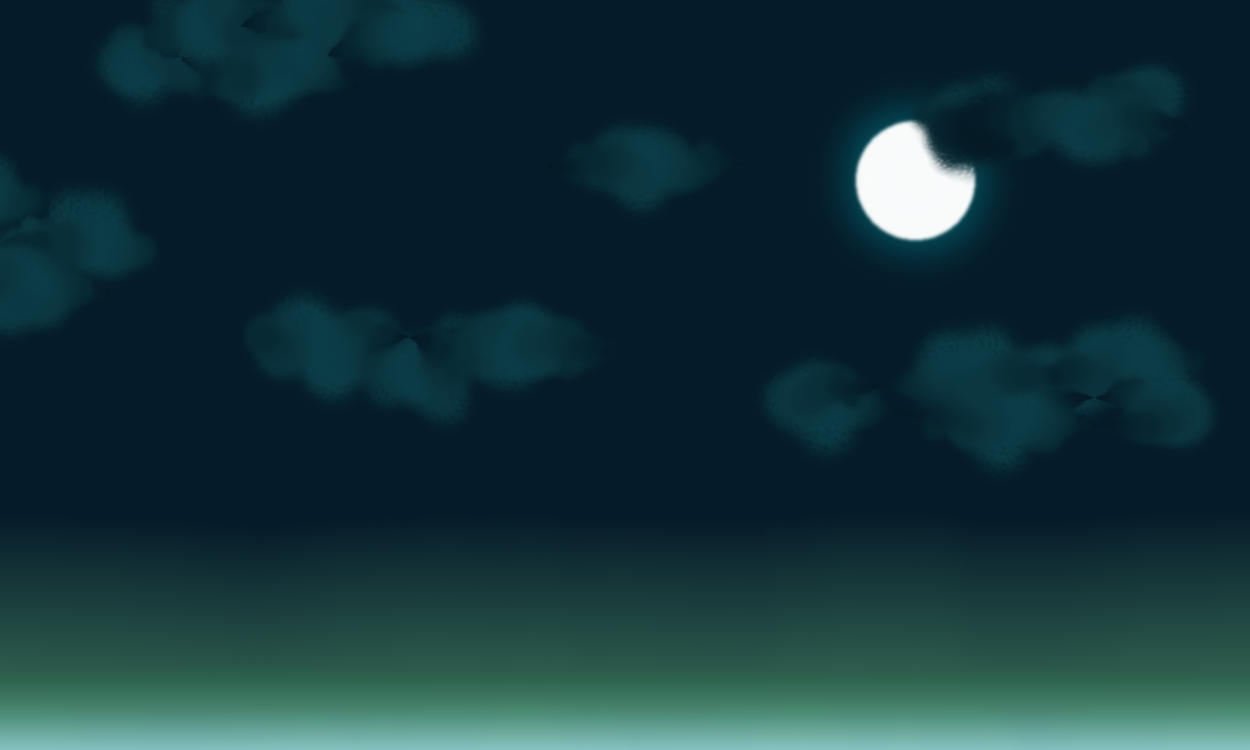
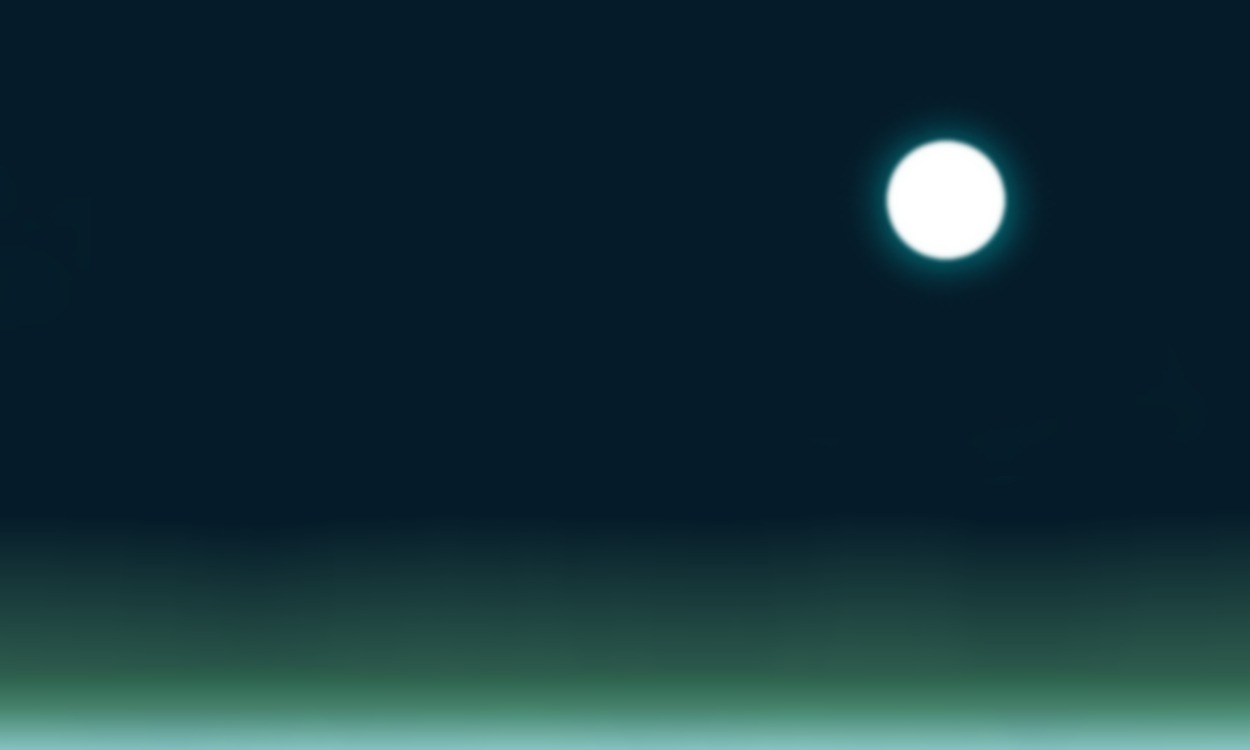
parallax template... fail.

diff --git a/src/LevelReader.cpp b/src/LevelReader.cpp
@@ -133,13 +133,13 @@ bool LevelReader::readTilesetPath(char* start, char* end, LevelData& data)
 	return true;
 }
 
-bool LevelReader::readLayerImage(char* start, char* end, LevelData& data)
+bool LevelReader::readLayerBackground(char* start, char* end, LevelData& data)
 {
 	char* startData;
 	startData = gotoNextChar(start, end, '"');
 	startData++;
 	float distance = atof(startData);
-	startData = gotoNextChar(startData, end, ',');
+	startData = gotoNextChar(start, end, ',');
 	startData++;
 	string path(startData);
 	int count = countToNextChar(startData, end, '"');
@@ -181,7 +181,7 @@ bool LevelReader::readTileSize(char* start, char* end, LevelData& data)
 	return true;
 }
 
-bool LevelReader::readLayerBackground(char* start, char* end, LevelData& data)
+bool LevelReader::readLayerTiles(char* start, char* end, LevelData& data)
 {
 	// add a new layer into data
 	vector<int> layer;
@@ -309,9 +309,9 @@ bool LevelReader::readLevel(char* fileName, LevelData& data)
 			pos = gotoNextChar(pos, end, ';');
 			pos = gotoNextChar(pos, end, '\n');
 		}
-		else if (strncmp(pos, __LAYER_BACKGROUND, strlen(__LAYER_BACKGROUND)) == 0) {
-			printf("LevelReader: Found tag %s \n", __LAYER_BACKGROUND);
-			readLayerBackground(pos, end, data);
+		else if (strncmp(pos, __LAYER_TILES, strlen(__LAYER_TILES)) == 0) {
+			printf("LevelReader: Found tag %s \n", __LAYER_TILES);
+			readLayerTiles(pos, end, data);
 			pos = gotoNextChar(pos, end, ';');
 			pos = gotoNextChar(pos, end, '\n');
 		}
@@ -320,9 +320,9 @@ bool LevelReader::readLevel(char* fileName, LevelData& data)
 			readStartPos(pos, end, data);
 			pos = gotoNextChar(pos, end, '\n');
 		}
-		else if (strncmp(pos, __LAYER_IMAGE, strlen(__LAYER_IMAGE)) == 0) {
-			printf("LevelReader: Found tag %s \n", __LAYER_IMAGE);
-			readLayerImage(pos, end, data);
+		else if (strncmp(pos, __LAYER_BACKGROUND, strlen(__LAYER_BACKGROUND)) == 0) {
+			printf("LevelReader: Found tag %s \n", __LAYER_BACKGROUND);
+			readLayerBackground(pos, end, data);
 			pos = gotoNextChar(pos, end, '\n');
 		}
 		else {

diff --git a/src/Level.cpp b/src/Level.cpp
@@ -37,12 +37,30 @@ bool Level::load(ResourceID id)
 	return true;
 }
 
-void Level::draw(sf::RenderTarget &target, sf::RenderStates states)
+void Level::draw(sf::RenderTarget &target, sf::RenderStates states, Vector2f* center_)
 {
+	Vector2f center(center_->x, center_->y);
+	delete center_;
+	cout <<  center.x << endl;
+	sf::View view;
+	view.setSize(WINDOW_WIDTH, WINDOW_HEIGHT);
 	for (int i = 0; i < m_backgroundLayers.size(); i++)
 	{
+		// handle case for layer at infinity
+		if (m_backgroundLayers[i].getDistance() == -1.0f) 
+		{
+			view.setCenter(WINDOW_WIDTH / 2, WINDOW_HEIGHT / 2);
+			target.setView(view);
+		}
+		else
+		{
+			view.setCenter((center.x * m_backgroundLayers[i].getDistance()) + (WINDOW_WIDTH / 3.4), WINDOW_HEIGHT / 2);
+			target.setView(view);
+		}
 		m_backgroundLayers[i].render(target);
 	}
+	view.setCenter(center.x, WINDOW_HEIGHT / 2);
+	target.setView(view);
 	m_tileMap.draw(target, states);
 }
 

diff --git a/include/LevelReader.h b/include/LevelReader.h
@@ -6,8 +6,8 @@
 #define __MAP_TILESIZE "map.tilesize"
 #define __TILESET_PATH "tileset.path"
 #define __LAYER_COLLIDABLE "layer.collidable"
+#define __LAYER_TILES "layer.tiles"
 #define __LAYER_BACKGROUND "layer.background"
-#define __LAYER_IMAGE "layer.image"
 #define __CENDRIC_STARTPOS "cendric.startpos"
 
 struct LevelData
@@ -45,7 +45,7 @@ private:
 	bool readLayerBackground(char* start, char* end, LevelData& data);
 	bool readLayerCollidable(char* start, char* end, LevelData& data);
 	bool readStartPos(char* start, char* end, LevelData& data);
-	bool readLayerImage(char* start, char* end, LevelData& data);
+	bool readLayerTiles(char* start, char* end, LevelData& data);
 
 	// \brief check level bean for validity before loading the level
 	bool checkData(LevelData& data);

diff --git a/src/Screens/GameScreen.cpp b/src/Screens/GameScreen.cpp
@@ -4,8 +4,8 @@ GameScreen::GameScreen()
 {
 	cout << "Init GameScreen...";
 	m_currentLevel.load(ResourceID::Level_testLevel);
-	MainCharacter* mainChar = new MainCharacter(&m_currentLevel);
-	addObject(mainChar);
+	m_mainChar = new MainCharacter(&m_currentLevel);
+	addObject(m_mainChar);
 	cout << "...done." << endl;
 }
 
@@ -21,6 +21,7 @@ Screen* GameScreen::update(sf::Time frameTime)
 
 void GameScreen::render(sf::RenderTarget &renderTarget)
 {
-	m_currentLevel.draw(renderTarget, RenderStates::Default);
+	// parallax 
+	m_currentLevel.draw(renderTarget, RenderStates::Default, m_mainChar->getCenter());
 	Screen::render(renderTarget);
 }

diff --git a/src/BackgroundLayer.cpp b/src/BackgroundLayer.cpp
@@ -15,12 +15,17 @@ void BackgroundLayer::dispose()
 
 void BackgroundLayer::load(std::string& filename, float distance)
 {
-	m_distance = distance;
 	m_fileName = filename;
+	m_distance = distance;
 	m_sprite = sf::Sprite((*g_resourceManager->getTexture(m_fileName)));
 }
 
 void BackgroundLayer::render(sf::RenderTarget &target) 
 {
 	target.draw(m_sprite);
+}
+
+float BackgroundLayer::getDistance()
+{
+	return m_distance;
 }

diff --git a/src/MainCharacter.cpp b/src/MainCharacter.cpp
@@ -146,6 +146,13 @@ void MainCharacter::handleInput()
 	setAcceleration(Vector2f(newAccelerationX, newAccelerationY));
 }
 
+Vector2f* MainCharacter::getCenter()
+{
+	return new Vector2f(
+		getBoundingBox()->left + (getBoundingBox()->width / 2), 
+		getBoundingBox()->top + (getBoundingBox()->height / 2));
+}
+
 void MainCharacter::load()
 {
 	setBoundingBox(sf::IntRect(0, 0, 46, 100));

diff --git a/include/Level.h b/include/Level.h
@@ -18,8 +18,8 @@ public:
 	// deletes the resources
 	void dispose();
 
-	// \brief draws the level. At the moment, only its tilemap.
-	void draw(sf::RenderTarget &target, sf::RenderStates states);
+	// \brief draws the level. Background layers, tilemap, foreground layers.
+	void draw(sf::RenderTarget &target, sf::RenderStates states, Vector2f* center);
 
 private:
 	TileMap m_tileMap;

diff --git a/include/stdafx.h b/include/stdafx.h
@@ -24,8 +24,12 @@ using namespace std;
 #include <SFML/Graphics.hpp>
 using namespace sf;
 
-// own classes
+// TODO these values should not be const, but loaded from an .ini file.
+#define WINDOW_WIDTH 1250
+#define WINDOW_HEIGHT 750
+#define FRAME_RATE 60
 
+// own classes
 #include "ResourceManager.h"
 #include "BackgroundLayer.h"
 #include "TileMap.h"

diff --git a/include/Game.h b/include/Game.h
@@ -1,10 +1,5 @@
 #include "stdafx.h"
 
-// TODO these values should not be const, but loaded from an .ini file.
-#define WINDOW_WIDTH 1250
-#define WINDOW_HEIGHT 750
-#define FRAME_RATE 60
-
 class Game
 {
 public:

diff --git a/include/BackgroundLayer.h b/include/BackgroundLayer.h
@@ -9,6 +9,7 @@ public:
 	void load(std::string& filename, float distance);
 	void dispose();
 	void render(sf::RenderTarget &target);
+	float getDistance();
 
 private:
 	// distance to camera. -1 means infinity.

diff --git a/include/Screens/GameScreen.h b/include/Screens/GameScreen.h
@@ -1,5 +1,7 @@
 #include "stdafx.h"
 
+class MainCharacter;
+
 class GameScreen : public Screen
 {
 public:
@@ -11,4 +13,5 @@ public:
 
 private:
 	Level m_currentLevel;
+	MainCharacter* m_mainChar;
 };

diff --git a/include/MainCharacter.h b/include/MainCharacter.h
@@ -13,6 +13,7 @@ public:
 	void load() override;
 	void update(sf::Time& frameTime) override;
 	void checkCollisions(sf::Vector2f nextPosition) override;
+	Vector2f* getCenter();
 	
 
 private:
